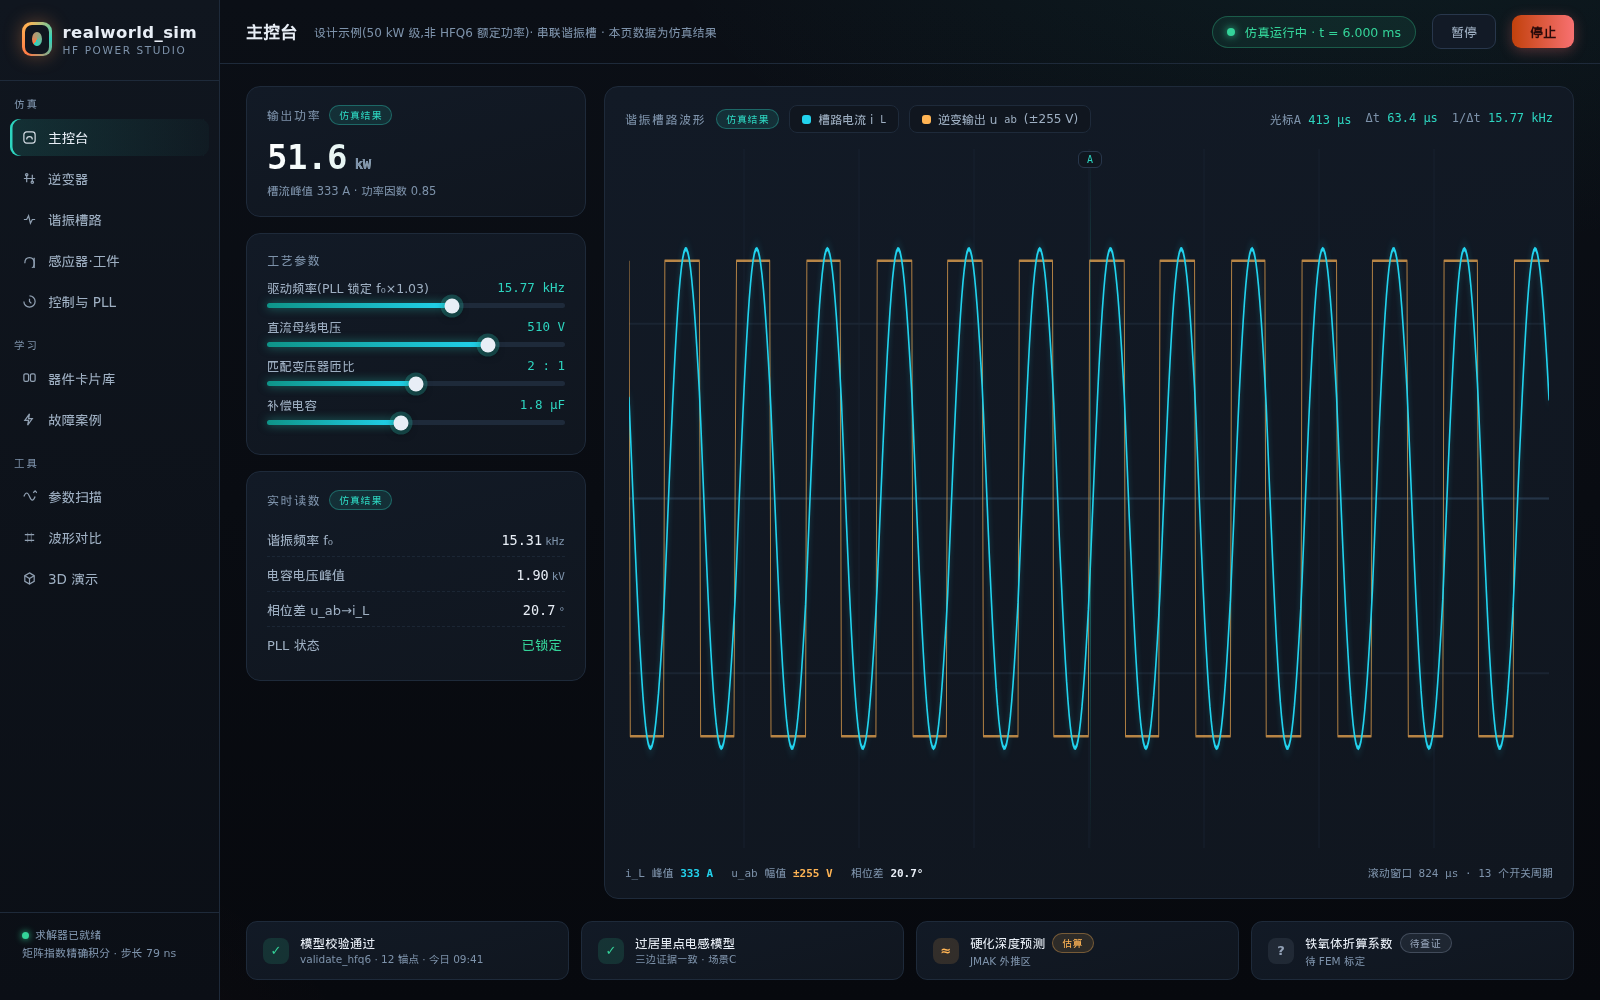
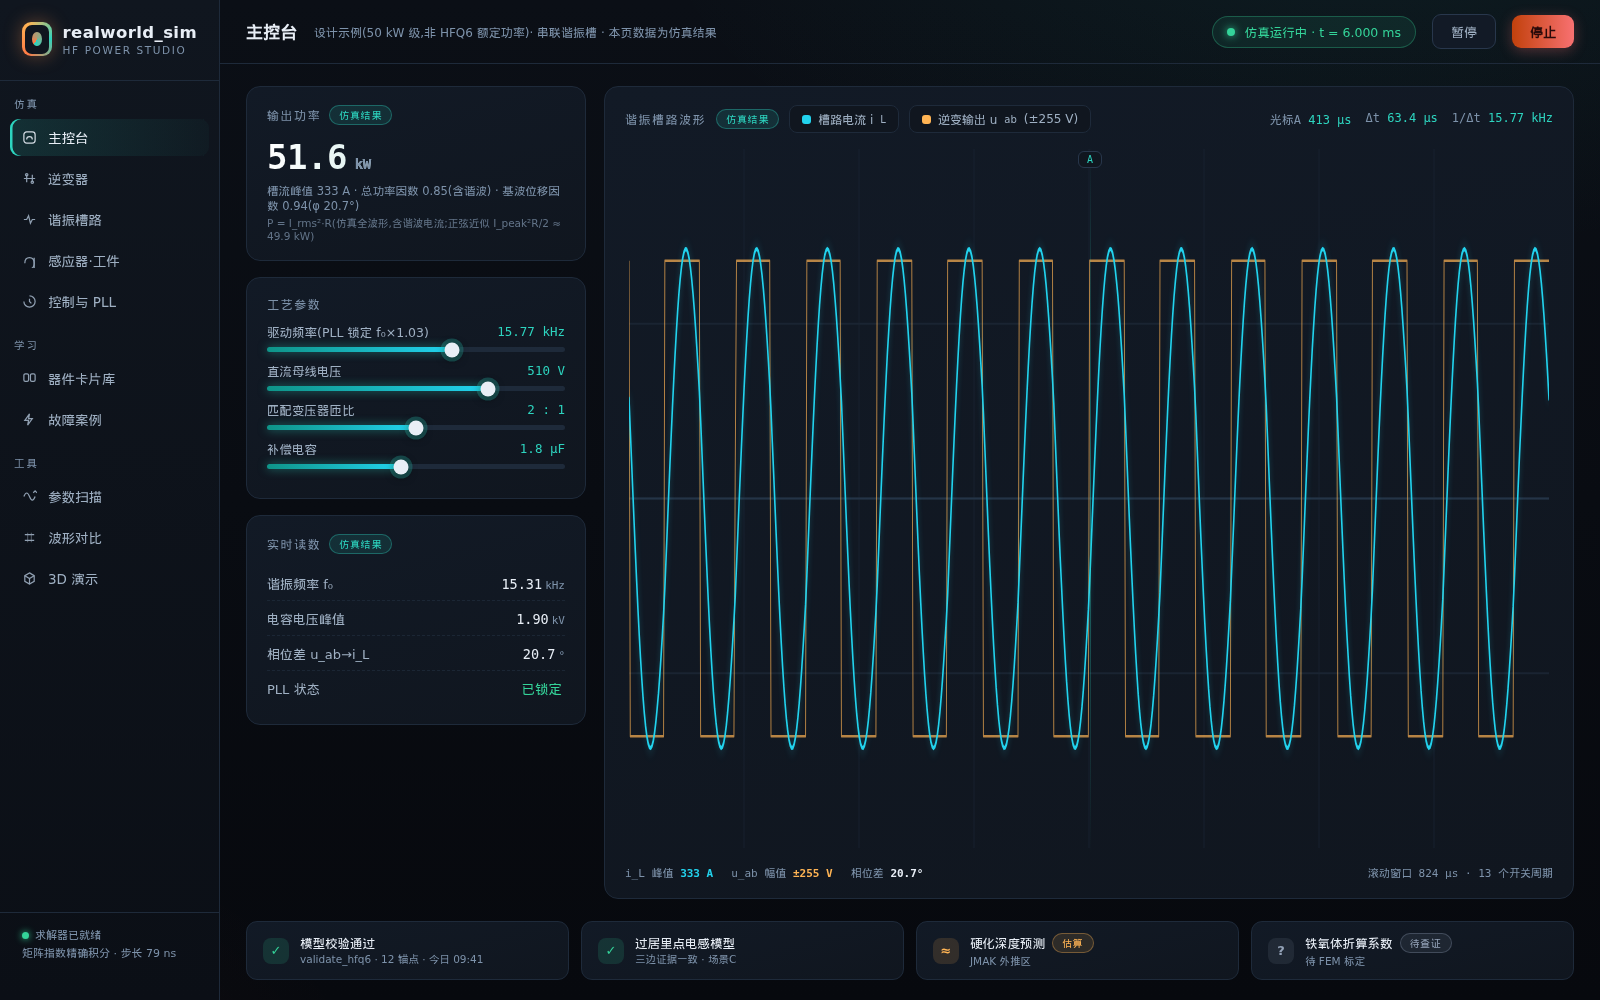
design v1.3: Hark复核修正(PF双口径标注:总0.85含谐波/位移0.94;P算法注明I_rms²R全波形;p3改'转容性ZVS丢失'+风险徽章;示意徽章挪右下角不压曲线)

diff --git a/design/v1/p3_cards.html b/design/v1/p3_cards.html
@@ -90,7 +90,7 @@
 <text x="6" y="178" fill="#7d92aa" font-size="10" font-family="monospace">317 A</text></svg>          <div style="position:absolute;left:52%;top:8px;font-size:10.5px;color:var(--em);background:var(--bg2);border:1px solid rgba(255,122,69,.35);padding:3px 10px;border-radius:7px">15 ms 施加 L 阶跃(过居里)· f₀ 越过驱动频率</div>
         </div>
         <div style="display:flex;gap:16px;margin-top:8px;font-size:11px;color:var(--tx2);align-items:center">
-          <span>定频驱动下 f₀ 上移 → 先逼近后越过谐振点 → 包络 +7.2%,继续升温将进入容性区(风险)。实际过居里为秒级渐变,此处用阶跃作保守简化</span>
+          <span>定频驱动下 f₀ 上移越过驱动频率 → 负载由感性转容性,ZVS 丢失(硬开关风险)→ 需 PLL 重新追频;包络 +7.2%。实际过居里为秒级渐变,此处用阶跃作保守简化</span><span class="badge" style="margin-left:auto;white-space:nowrap;background:rgba(248,113,113,.14);color:#f87171;border:1px solid rgba(248,113,113,.4)">ZVS 丢失风险</span>
         </div>
       </div>
     </div>

diff --git a/design/v1/p1_dashboard.html b/design/v1/p1_dashboard.html
@@ -12,7 +12,7 @@
       <div class="card">
         <h3>输出功率 <span class="badge sim">仿真结果</span></h3>
         <div class="big">51.6<em> kW</em></div>
-        <div style="font-size:11.5px;color:var(--tx2);margin-top:6px">槽流峰值 333 A · 功率因数 0.85</div>
+        <div style="font-size:11.5px;color:var(--tx2);margin-top:6px">槽流峰值 333 A · 总功率因数 0.85(含谐波) · 基波位移因数 0.94(φ 20.7°)</div><div style="font-size:10.5px;color:var(--tx2);opacity:.75;margin-top:3px">P = I_rms²·R(仿真全波形,含谐波电流;正弦近似 I_peak²R/2 ≈ 49.9 kW)</div>
       </div>
       <div class="card">
         <h3>工艺参数</h3>

diff --git a/design/v1/theme.css b/design/v1/theme.css
@@ -74,4 +74,4 @@ body{background:var(--bg0);color:var(--tx0);font-family:"PingFang SC","Microsoft
 .vpill.ok .vi{background:rgba(52,211,153,.14);color:var(--ok)}
 .vpill small{display:block;color:var(--tx2);font-size:10.5px;margin-top:1px}
 .badge.ill{background:rgba(167,139,250,.12);color:#b9a5f5;border:1px solid rgba(167,139,250,.35)}
-.wavtag{position:absolute;right:6px;top:6px;font-size:9.5px;padding:1.5px 7px;border-radius:99px;letter-spacing:.6px}
+.wavtag{position:absolute;right:6px;top:auto;bottom:5px;font-size:9.5px;padding:1.5px 7px;border-radius:99px;letter-spacing:.6px}
